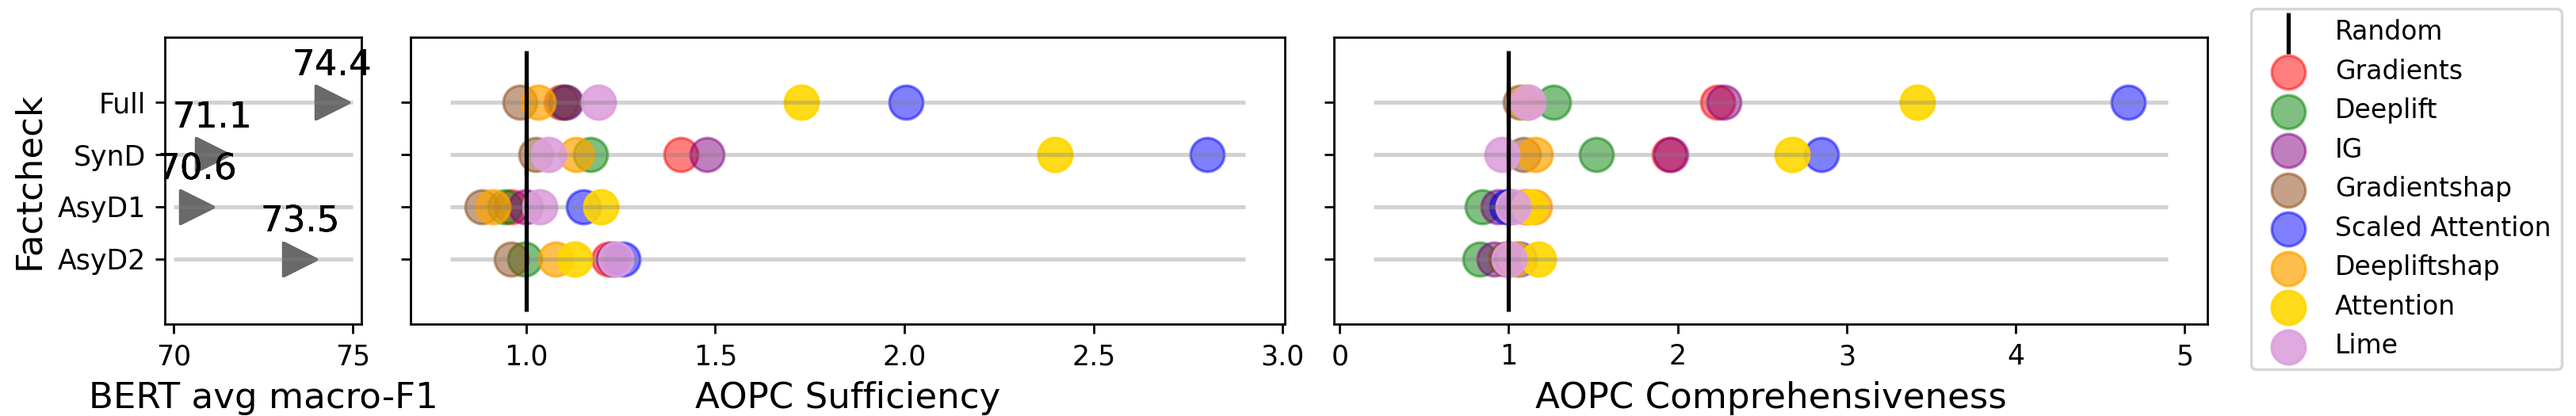
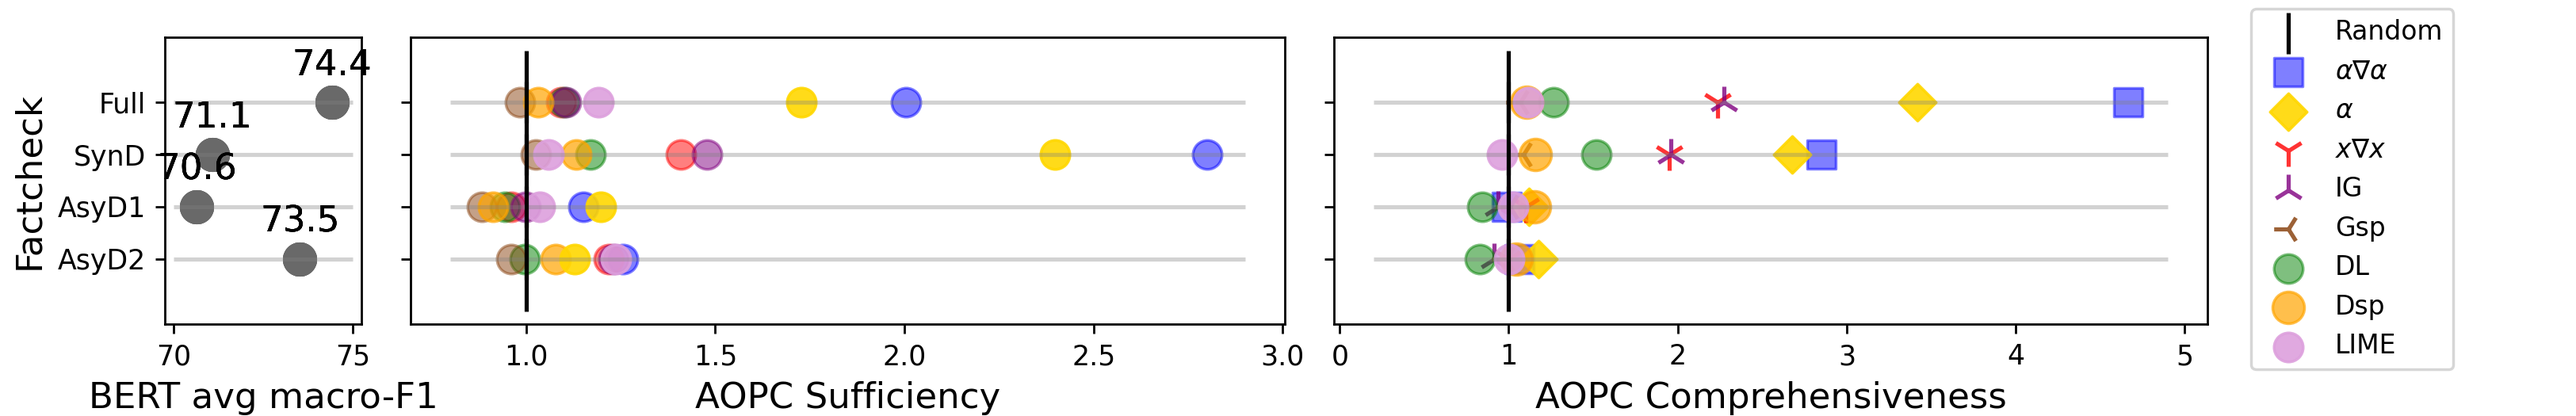
m

diff --git a/saved_everything/lollipop_ration.py b/saved_everything/lollipop_ration.py
@@ -7,35 +7,35 @@ from matplotlib.cm import ScalarMappable
 from matplotlib.lines import Line2D
 from mpl_toolkits.axes_grid1.inset_locator import inset_axes
 
-# df = pd.read_csv("all_tasks_all_posthoc.csv")
-# print(df)
-# df = df[df['thresholder'].str.contains('contigi')] # topk
+df = pd.read_csv("all_tasks_all_posthoc.csv")
+print(df)
+df = df[df['thresholder'].str.contains('contigi')] # topk
 
-# df['gradients'] = df['gradients']/df['random']
-# df['deeplift'] = df['deeplift']/df['random']
-# df['attention'] = df['attention']/df['random']
-# df['lime'] = df['lime']/df['random']
-# df['gradientshap'] = df['gradientshap']/df['random']
-# df['deepliftshap'] = df['deepliftshap']/df['random']
-# df['scaled attention'] = df['scaled attention']/df['random']
-# df['ig'] = df['ig']/df['random']
+df['gradients'] = df['gradients']/df['random']
+df['deeplift'] = df['deeplift']/df['random']
+df['attention'] = df['attention']/df['random']
+df['lime'] = df['lime']/df['random']
+df['gradientshap'] = df['gradientshap']/df['random']
+df['deepliftshap'] = df['deepliftshap']/df['random']
+df['scaled attention'] = df['scaled attention']/df['random']
+df['ig'] = df['ig']/df['random']
 
-# df['random'] = df['random']/df['random']
-# df['mean-f1'] = df['mean-f1']*100
+df['random'] = df['random']/df['random']
+df['mean-f1'] = df['mean-f1']*100
 
 data = 'Factcheck'
 
-for fname in os.listdir('../posthoc_results/factcheck/'):
-    print(fname)
-    if 'ood1' in str(fname):
-        ood1 = pd.read_json('../posthoc_results/factcheck/'+fname)
-        print(ood1)
-    elif 'ood2' in str(fname):
-        ood2 = pd.read_json('../posthoc_results/factcheck/'+fname)
-    else:
-        indomain = pd.read_json('../posthoc_results/factcheck/'+fname)
+# for fname in os.listdir('../posthoc_results/factcheck/'):
+#     print(fname)
+#     if 'ood1' in str(fname):
+#         ood1 = pd.read_json('../posthoc_results/factcheck/'+fname)
+#         print(ood1)
+#     elif 'ood2' in str(fname):
+#         ood2 = pd.read_json('../posthoc_results/factcheck/'+fname)
+#     else:
+#         indomain = pd.read_json('../posthoc_results/factcheck/'+fname)
 
-exit()
+# exit()
 
 
 
@@ -50,7 +50,7 @@ my_range=suff['Domain']
 print(my_range)
 
 ALPHA = 0.5
-SIZE = 150
+SIZE = 111
 xlabel_size = 13
 ylabel_size = 15
 domainlabel_size = 20
@@ -117,7 +117,7 @@ ax[0].set_yticks(range(len(my_range)))
 ax[0].set_yticklabels(my_range)
 
 ax[0].hlines(y=my_range, xmin=bert_min, xmax=bert_max, color='grey', alpha=0.35)
-ax[0].scatter(df['mean-f1'], df['Domain'], color='dimgray', alpha=1, label='F1', marker=">", s=144) # marker='|'
+ax[0].scatter(df['mean-f1'], df['Domain'], color='dimgray', alpha=1, label='F1', marker="o", s=130) # marker='|'
 for x,y in zip(df['mean-f1'],df['Domain']):
     label = format(x, '.1f')
     ax[0].annotate(label, # this is the text
@@ -143,15 +143,16 @@ YMAX = 4
 ax[1].hlines(y=my_range, xmin=suff_min, xmax=suff_max, color='grey', alpha=0.35)
 ax[1].vlines(x = 1, ymin=YMIN, ymax=YMAX, color='black', alpha=1)
 ax[1].scatter(suff['random'], my_range, color='black', alpha=1, label='Random', marker='|', s=230)
-
+ax[1].scatter(suff['scaled attention'], my_range, color='blue', alpha=ALPHA , label='Scaled Attention', s=SIZE)
 ax[1].scatter(suff['gradients'], my_range, color='red', alpha=ALPHA , label='Gradients', s=SIZE)
 ax[1].scatter(suff['deeplift'], my_range, color='green', alpha=ALPHA , label='Deeplift', s=SIZE)
 ax[1].scatter(suff['ig'], my_range, color='purple', alpha=ALPHA , label='IG', s=SIZE)
 ax[1].scatter(suff['gradientshap'], my_range, color='saddlebrown', alpha=ALPHA , label='Gradientshap', s=SIZE)
-ax[1].scatter(suff['scaled attention'], my_range, color='blue', alpha=ALPHA , label='Scaled Attention', s=SIZE)
+
 ax[1].scatter(suff['deepliftshap'], my_range, color='orange', alpha=ALPHA+0.2, label='Deepliftshap', s=SIZE)
 ax[1].scatter(suff['attention'], my_range, color='gold', alpha=ALPHA+0.4, label='Attention', s=SIZE)
 ax[1].scatter(suff['lime'], my_range, color='plum', alpha=ALPHA+0.4, label='Lime', s=SIZE)
+
 ax[1].set_xlabel('AOPC Sufficiency',fontsize=xlabel_size)
 ax[1].invert_yaxis()
 plt.plot()
@@ -161,15 +162,18 @@ plt.plot()
 ax[2].hlines(y=my_range, xmin=comp_min, xmax=comp_max, color='grey', alpha=0.35)
 ax[2].vlines(x = 1, ymin=YMIN, ymax=YMAX, color='black', alpha=1)
 ax[2].scatter(comp['random'], my_range, color='black', alpha=1, label='Random', marker='|', s=230)
+ax[2].scatter(comp['scaled attention'], my_range, color='blue', alpha=ALPHA , label=r'$\alpha\nabla\alpha$', s=SIZE, marker="s")
+ax[2].scatter(comp['attention'], my_range, color='gold', alpha= ALPHA+0.4, label=r'$\alpha$', s=SIZE-21, marker="D")
 
-ax[2].scatter(comp['gradients'], my_range, color='red', alpha=ALPHA , label='Gradients', s=SIZE)
-ax[2].scatter(comp['deeplift'], my_range, color='green', alpha=ALPHA , label='Deeplift', s=SIZE)
-ax[2].scatter(comp['ig'], my_range, color='purple', alpha=ALPHA , label='IG', s=SIZE)
-ax[2].scatter(comp['gradientshap'], my_range, color='saddlebrown', alpha=ALPHA , label='Gradientshap', s=SIZE)
-ax[2].scatter(comp['scaled attention'], my_range, color='blue', alpha=ALPHA , label='Scaled Attention', s=SIZE)
-ax[2].scatter(comp['deepliftshap'], my_range, color='orange', alpha=ALPHA+0.2, label='Deepliftshap', s=SIZE)
-ax[2].scatter(comp['attention'], my_range, color='gold', alpha= ALPHA+0.4, label='Attention', s=SIZE)
-ax[2].scatter(comp['lime'], my_range, color='plum', alpha=ALPHA+0.4, label='Lime', s=SIZE)
+ax[2].scatter(comp['gradients'], my_range, color='red', alpha=ALPHA+0.3, label=r'$x\nabla x $', s=SIZE+22, marker="1")
+ax[2].scatter(comp['ig'], my_range, color='purple', alpha=ALPHA+0.3, label='IG', s=SIZE+22, marker="2")
+ax[2].scatter(comp['gradientshap'], my_range, color='saddlebrown', alpha=ALPHA+0.35, label='Gsp', s=SIZE, marker="3")
+
+ax[2].scatter(comp['deeplift'], my_range, color='green', alpha=ALPHA , label='DL', s=SIZE)
+ax[2].scatter(comp['deepliftshap'], my_range, color='orange', alpha=ALPHA+0.2, label='Dsp', s=SIZE+22)
+
+
+ax[2].scatter(comp['lime'], my_range, color='plum', alpha=ALPHA+0.4, label='LIME', s=SIZE)
 ax[2].set_xlabel('AOPC Comprehensiveness',fontsize=xlabel_size)
 ax[2].invert_yaxis()
 plt.plot()
